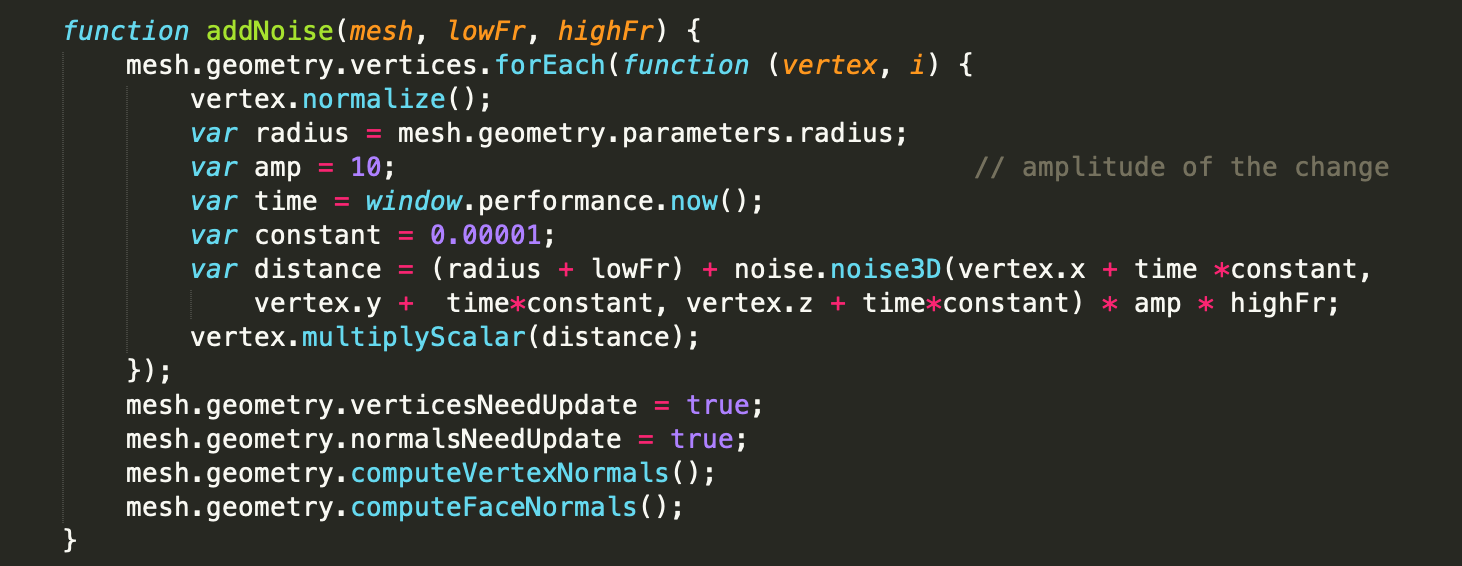
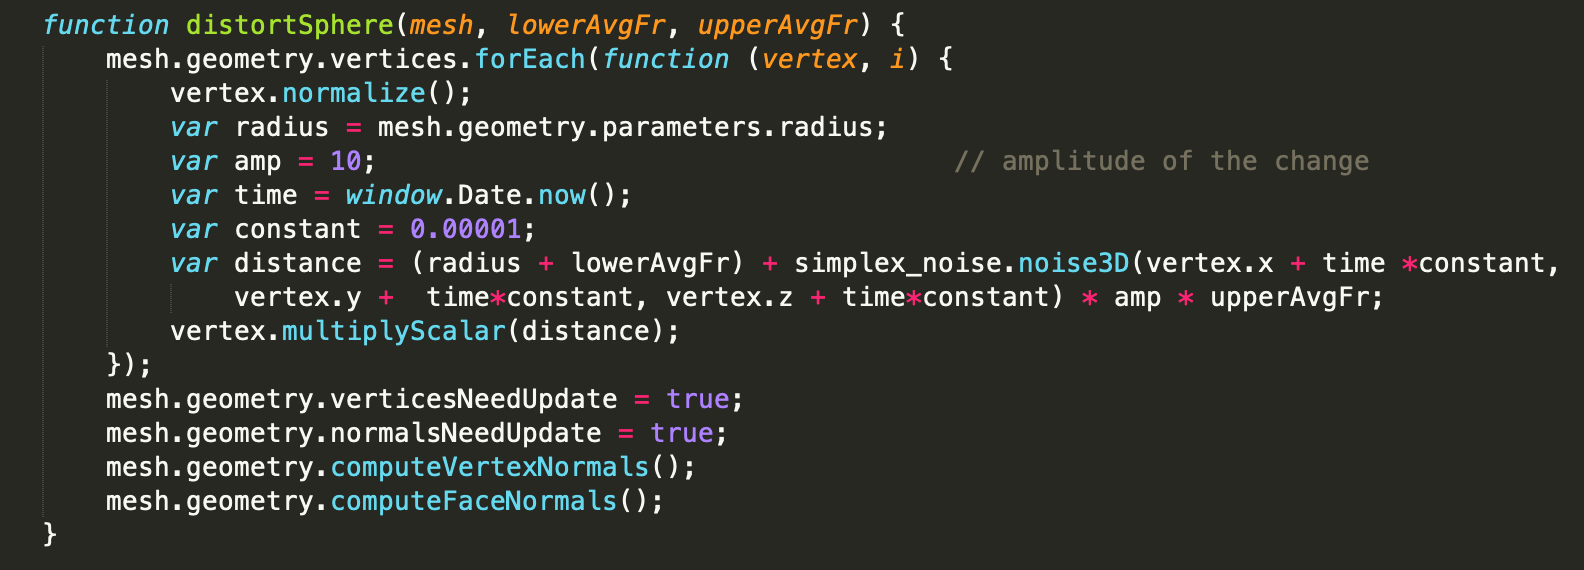
final writeup

diff --git a/index.html b/index.html
@@ -25,14 +25,15 @@
 
 <h1 align="middle">CS 184: Computer Graphics and Imaging, Spring 2019</h1>
 <h1 align="middle">Final Project: Audio Visualization</h1>
-<h2 align="middle">Nipun Ramakrishnan, Stephanie He, Lucas Pan</h2>
+<h2 align="middle">Nipun Ramakrishnan, Stephanie He</h2>
 
 <br><br>
 
 <div>
 
-<h2 align="middle">Overview</h2>
-<p>In this project, we worked on the problem of generating compelling visualizations given an audio file.  </p>
+<h2 align="middle">Abstract</h2>
+<p> Music visualization is often used by electronic music visualizers and media player software to generate real time, adaptive images based on the audio features of a piece of music. In this project, we want to delve into the techniques that people in this field use to detect the sound waves and transform them into visual imagery. We started off with several basic geometries, such as spheres and bars, and then moved onto more complex imagery like landscapes. We mainly used WebAudio API and Meyda.js to extract and process audio features and THREE.js and WEBGL frameworks to render the graphics. Several audio features that we explored include MFCC, RMS, chroma, and energy. 
+ </p>
 
 <h2 align="middle">Audio Visualizations on a Simple Sphere Geometry</h2>
 The first visualization we attempted to create was a simple sphere that would change size and color according to frequencies in the music. We used the three.js framework to render a scene with a sphere. Once we generated a scene, we then used a listener from the Web Audio API to analyze the frequency domain data from the audio file. The frequencies provided from the audio context were then averaged into a single value that was then used to scale the radius of the sphere. Additionally, we normalized this average frequency value to a value between 0 and 1 by dividing it by the maximum frequency found in the frequency domain. We then mapped this normalized value to a specific color over the hex color scale as defined by HTML5. Below is a screenshot of the main code that changes attributes of the sphere. 
@@ -90,10 +91,46 @@ Below is an image of the mesh of box geometries. Additionally, <a href="https://
   </table>
 </div>
 
+<h2 align="middle">Perlin/Simplex Noise</h2>
+
+A concept that we used in later visualizations to make them more compelling is Perlin Noise. 
+Unlike random noise, there is a smooth gradient between the randomly selected points. This
+is achieved by first creating a simplex grid in the specified dimension. Then, calculate 
+a random gradient vector in each intersection in the simplex grid. To find the final value,
+take the dot product of the gradient vectors and distance vectors to interpolate the value. 
+In our visualizations, this helped us change the position of the vertices in a smooth manner. 
+
+<div align="middle">
+    <table style="width=100%">
+      <tr>
+        <td>
+          <img src="images/simplexgrid.png" align="middle" width="500px"/>
+          <figcaption align="middle">simplex grid in 2D space</figcaption>
+        </td>
+        <td>
+          <img src="images/simplexgradients.png" align="middle" width="500px"/>
+          <figcaption align="middle">randomy gradient vectors</figcaption>
+        </td>
+      </tr>
+      <br>
+      <tr>
+        <td>
+          <img src="images/perlin.png" align="middle" width="500px"/>
+          <figcaption align="middle">difference between random and perlin noise</figcaption>
+        </td>
+
+      </tr>
+    </table>
+  </div>
+
+
 <h2 align="middle">Audio Visualizations on a Sphere Mesh</h2>
 
 This visualization tries to change the position of the vertices on a sphere's mesh in correspondence to the frequencies of the music. For the geometry, we decided to use a Geodesic polyhedron - a sphere created by subdividing an icosahedron. 
-Like the other visualizers, this one uses the AudioContext interface to preprocess the audio file. It gets the frequency domain data of the audio file and splits them into two equally sized arrays: lower frequencies and higher frequencies. It then calculates the average frequency for both of these arrays. For every single vertex, it recalculates the position by first normalizing the vertex. It then feeds the vertex's position to the SimplexNoise API to randomly sample a noise from 3D. It calculates the distance each vertex will be displaced by summing the radius of the original sphere, the lower frequency average, and the noise multiplied by the higher frequency average. The vertex is multiplied by this scalar and the mesh updates accordingly by recalculating the vertex and face normals. 
+Like the other visualizers, this one uses the AudioContext interface to preprocess the audio file. It gets the frequency domain data of the audio file and splits them into two equally sized arrays: lower frequencies and higher frequencies. It then calculates the average frequency for both of these arrays. For every single vertex, it recalculates the position by first normalizing the vertex. 
+The visualizer uses the vertex's position as well as the current time to seed the SimplexNoise instance
+and randomly sample a noise from 3D.
+It calculates the distance each vertex will be displaced by summing the radius of the original sphere, the lower frequency average, and the noise multiplied by the higher frequency average. The vertex is multiplied by this scalar and the mesh updates accordingly by recalculating the vertex and face normals. 
 
 <div align="middle">
   <table style="width=100%">
@@ -118,15 +155,81 @@ Like the other visualizers, this one uses the AudioContext interface to preproce
 </div>
 
 
+<h2 align="middle">Audio Visualizations on a Plane</h2>
+
+This visualization tries to change the position of the vertices on a plane mesh using Simplex Noise.
+Unlike the previous visualizations, this one uses RMS (root mean squared), which is essentially 
+the loudness, as the main audio feature
+when displacing each vertex. Again, we seed the SimplexNoise with the time and vertex's position
+to get a random value in 2D and amplify it by the RMS. 
+At the top, there is a musical scale at the top, and the color for each key changes depending on
+how much of that key contributes to the current audio playing. This uses the chroma feature
+of the audio file.
+
+<div align="middle">
+  <table style="width=100%">
+    <tr>
+      <td>
+        <img src="images/plane_code.png" align="middle" width="800px"/>
+        <figcaption align="middle">Updating the vertex positions</figcaption>
+      </td>
+    </tr>
+  </table>
+</div>
+
+<div align="middle">
+  <table style="width=100%">
+    <tr>
+      <td>
+        <img src="images/chroma.png" align="middle" width="800px"/>
+        <figcaption align="middle">Determining the scale</figcaption>
+      </td>
+    </tr>
+  </table>
+</div>
+
+<div align="middle">
+  <table style="width=100%">
+    <tr>
+      <td>
+        <img src="images/plane.png" align="middle" width="800px"/>
+        <figcaption align="middle">Plane visualization</figcaption>
+      </td>
+    </tr>
+  </table>
+</div>
+
+<h2 align="middle">Challenges</h2>
+
+<p>Some challenges that we faced were how to display the audio features in a 
+visually compelling way. When we started off with just the sphere's radius and color changing,
+we felt like the user wouldn't gain as much information out of the visuals. To combat this,
+we looked into changing the actual vertices on the sphere mesh. 
+
+</p>
+
+
 <h2 align="middle">Reflection on Progress</h2>
 
 <p>Our main goal by this first milestone was to be able to successfully process the audio file and then use the audio file to alter various base geometries to create interesting visualizations. We achieved that goal and will continue to fine tune these geometric visualizations and add features. We will also explore using different audio features to generate visualizations and also explore looking at texture/landscape visualizations.</p>
 
 <p><a href="https://docs.google.com/presentation/d/1gotHWYzfvEhCX2WEEAsS95ao97fVGlePANzYO1rGQdw/edit#slide=id.g58fe59406f_0_0">Here</a> is a link to the google slides for our work thus far and <a href="https://youtu.be/emlJ6kqUvUY">here</a> is a link to our video that summarizes our work. </p> 
 
+<h2 align="middle">Contributions from each team member</h2>
+
+<p>Stephanie was in charge of creating the plane and sphere mesh visualizations that used Simplex Noise, as well as figuring out how to extract different audio features.  </p>
 
 
+<h2 align="middle">Resources </h2>
 
+<ol type="1">
+  <li><a href="https://www.npmjs.com/package/simplex-noise">Simplex Noise Package</a></li>
+  <li><a href="https://meyda.js.org/audio-features">Meyda.js framework</a></li>
+  <li><a href="https://www.youtube.com/watch?v=MJ3bvCkHJtE&t=953s">Perlin Noise Explained</a></li>
+  <li><a href="http://staffwww.itn.liu.se/~stegu/simplexnoise/simplexnoise.pdf">Simplex Noise Explained</a></li>
+  
+
+</ol>
 
 
 
